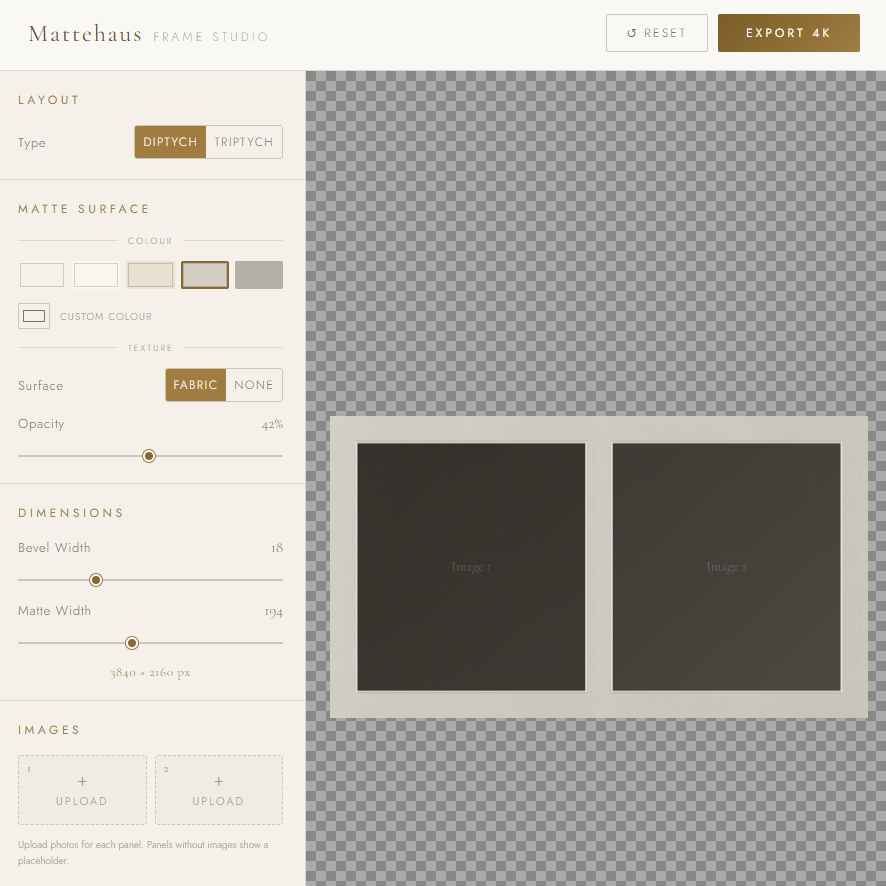
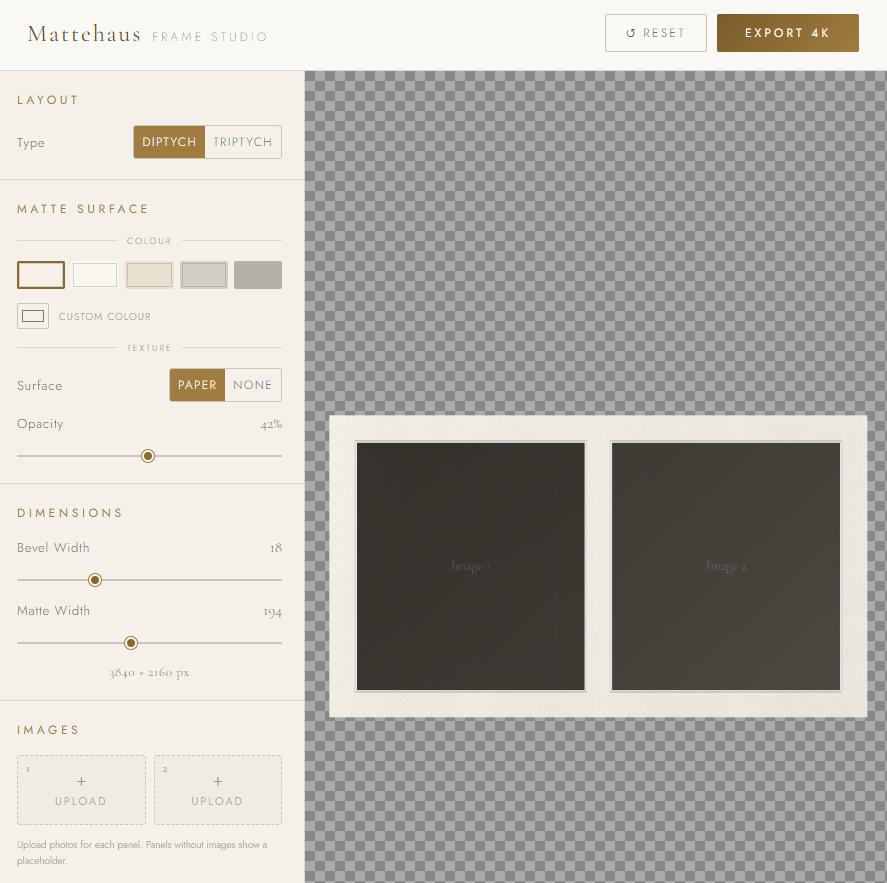
Update texture button label from 'Fabric' to 'Paper' and refresh screenshot

diff --git a/mattehaus-frame-studio.html b/mattehaus-frame-studio.html
@@ -601,7 +601,7 @@ global.SimplexNoise=SimplexNoise;
       <div class="control-row">
         <span class="ctrl-label">Surface</span>
         <div class="toggle-group">
-          <button class="toggle-btn active" id="btnTexOn"  onclick="setUseTexture(true)">Fabric</button>
+          <button class="toggle-btn active" id="btnTexOn"  onclick="setUseTexture(true)">Paper</button>
           <button class="toggle-btn"        id="btnTexOff" onclick="setUseTexture(false)">None</button>
         </div>
       </div>
